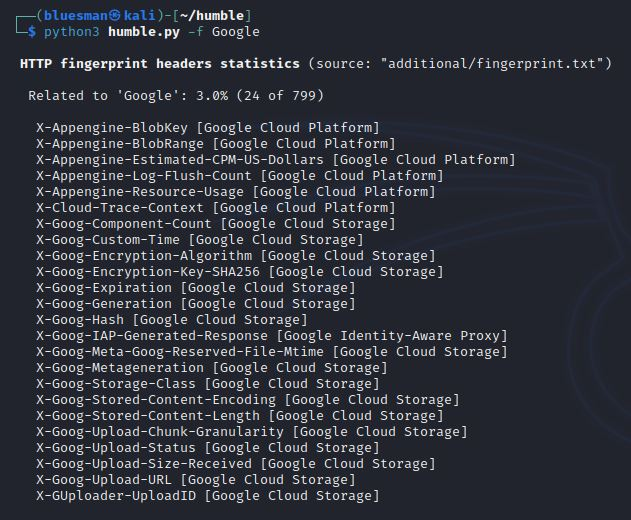
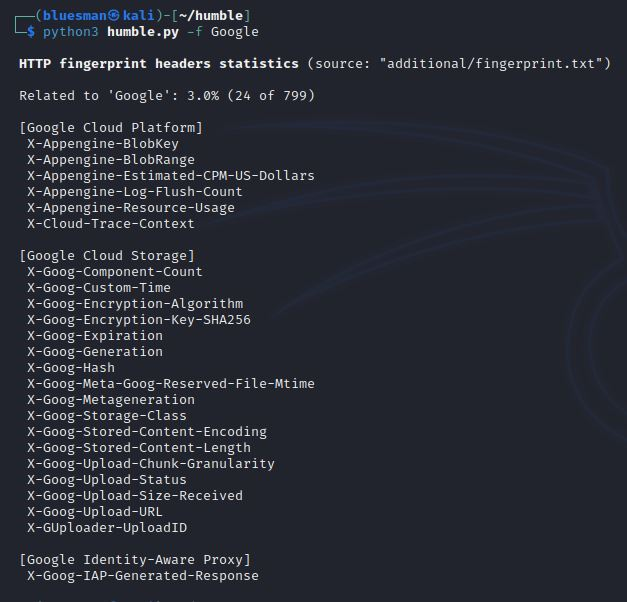
Feature: optimized fingerprint_analytics function
Split into smaller functions and output now shows grouped HTTP headers

Changed region(s): [[0.0, 0.0, 0.8182, 0.9846], [0.6061, 0.0923, 0.9697, 0.1538]]

diff --git a/humble.py b/humble.py
@@ -66,7 +66,7 @@ URL_S = ' URL  : '
 
 export_date = datetime.now().strftime("%Y%m%d")
 now = datetime.now().strftime("%Y/%m/%d - %H:%M:%S")
-version = datetime.strptime('2023-06-24', '%Y-%m-%d').date()
+version = datetime.strptime('2023-06-30', '%Y-%m-%d').date()
 
 
 class PDF(FPDF):
@@ -149,18 +149,35 @@ def check_updates(version):
         print(f"\n{get_detail('[update_error]')}")
 
 
-def fingerprint_analytics(term):
+def fng_analytics_groups(fng_lines, term):
+    pattern = r'\[(.*?)\]'
+    distinct_content = {re.search(pattern, line)[1].strip() for line in
+                        fng_lines if re.search(pattern, line) and term.lower()
+                        in re.search(pattern, line)[1].lower()}
+    term_count = sum(re.search(pattern, line) and term.lower() in
+                     re.search(pattern, line)[1].lower() for line in fng_lines)
+    return distinct_content, term_count
+
+
+def fng_analytics_sorted(fng_lines, term, distinct_content):
+    for content in sorted(distinct_content):
+        print(f"\n [{content}]")
+        for line in fng_lines:
+            if term.lower() in line.lower() and content in line:
+                print(f"  {line[:line.find('[')].strip()}")
+
+
+def fng_analytics(term):
     print(f"\n{Style.BRIGHT}{get_detail('[fng_stats]', replace=True)}\
 {Style.RESET_ALL}{get_detail('[fng_source]', replace=True)}\n")
     with open(path.join('additional', F_FILE), 'r', encoding='utf8') as fng_f:
         fng_lines = fng_f.readlines()
-        fng_ln = len(fng_lines)
-        term_count = sum(term.lower() in line.lower() for line in fng_lines)
-        pct_fng = round(term_count / fng_ln * 100, 2)
-        print(f" {get_detail('[fng_add]', replace=True)} '{term}': {pct_fng}%\
- ({term_count}{get_detail('[pdf_po]', replace=True)}{fng_ln})\n")
-        print(*(f"   {line.strip()}" for line in fng_lines if term.lower() in
-                line.lower()), sep='\n')
+    distinct_content, term_count = fng_analytics_groups(fng_lines, term)
+    fng_ln = len(fng_lines)
+    pct_fng = round(term_count / fng_ln * 100, 2)
+    print(f"{get_detail('[fng_add]', replace=True)} '{term}': {pct_fng}%\
+ ({term_count}{get_detail('[pdf_po]', replace=True)}{fng_ln})")
+    fng_analytics_sorted(fng_lines, term, distinct_content)
 
 
 def print_guides():
@@ -700,7 +717,7 @@ if args.term:
     details_f = get_details_lines()
     if args.lang:
         details_f = get_details_lines()
-    fingerprint_analytics(term)
+    fng_analytics(term)
     sys.exit()
 
 if args.lang and not (args.URL or args.URL_A):

diff --git a/README.md b/README.md
@@ -4,7 +4,7 @@
 <a target="_blank" href="https://www.python.org/downloads/" title="Minimum Python version required to run this tool"><img src="https://img.shields.io/badge/Python-%3E%3D3.9-blue?labelColor=343b41"></a>
 <a target="_blank" href="LICENSE" title="License of this tool"><img src="https://img.shields.io/badge/License-MIT-blue.svg?labelColor=343b41"></a>
 <a target="_blank" href="https://github.com/rfc-st/humble/releases" title="Latest release of this tool"><img src="https://img.shields.io/github/v/release/rfc-st/humble?display_name=release&label=Latest%20release&labelColor=343b41"></a>
-<a target="_blank" href="https://github.com/rfc-st/humble/commits/master" title="Latest commit of this tool"><img src="https://img.shields.io/badge/Latest_Commit-2023--06--24-blue.svg?labelColor=343b41"></a>
+<a target="_blank" href="https://github.com/rfc-st/humble/commits/master" title="Latest commit of this tool"><img src="https://img.shields.io/badge/Latest_Commit-2023--06--30-blue.svg?labelColor=343b41"></a>
 <a target="_blank" href="https://github.com/rfc-st/humble/actions?query=workflow%3ACodeQL" title="Results of the last analysis of this tool with CodeQL"><img src="https://github.com/rfc-st/humble/workflows/CodeQL/badge.svg"></a>
 <a target="_blank" href="https://owasp.org/www-project-secure-headers/#div-technical" title="Tool accepted as a technical resource for OWASP"><img src="https://img.shields.io/badge/OWASP-Resource-blue?labelColor=343b41"></a>
 <a target="_blank" href="https://www.kali.org/tools/humble/" title="Tool accepted in Kali"><img src="https://img.shields.io/badge/Kali%20Linux-Tool-blue?labelColor=343b41"></a>
